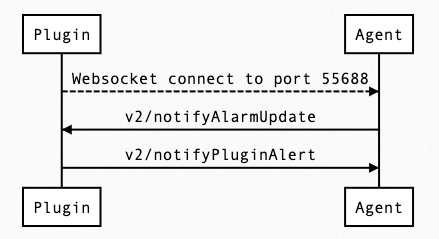
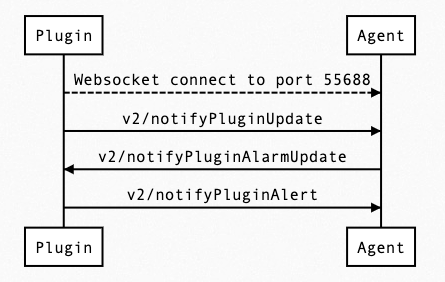
add alert page

Changed region(s): [[0.0296, 0.0293, 0.9476, 0.9665]]

diff --git a/docs/Overview/Alerts.md b/docs/Overview/Alerts.md
@@ -1,0 +1,115 @@
+![alert-sequence](_img/alert-sequence.png)
+
+Alert can bring your alert message up to Allxon Portal, then Allxon Portal can tranfer message to your email, webhook, LINE ..., depend on your setting on Allxon Portal. Just like other Cards, send `v2/notifyPluginUpdate` to initialize Alert Card. If you have Alert setting on Allxon Portal, you will get `v2/notifyPluginAlarmUpdate` after sending `v2/notifPluginUpdate`. After that, you can send `v2/notifyPluginAlert` whenever you wanna trigger Alert.
+
+Let's take a look at the example:
+
+```json {17-25}
+{
+    "jsonrpc": "2.0",
+    "method": "v2/notifyPluginUpdate",
+    "params": {
+        "sdk": "2.0.2",
+        "appGUID": "a8e873a1-e5df-43a2-928a-745ff9c94dfb",
+        "appName": "plugin-hello",
+        "epoch": "1664259325",
+        "displayName": "plugIN Hello",
+        "type": "ib",
+        "version": "1.0.1",
+        "modules": [
+            {
+                "moduleName": "plugin-hello",
+                "displayName": "plugIN Hello",
+                "properties": [],
+                "alarms": [
+                    {
+                        "name": "hello_alarm",
+                        "displayCategory": "Message",
+                        "displayName": "Hello alarm",
+                        "description": "Trigger when someone say hello",
+                        "params": []
+                    }
+                ]
+            }
+        ]
+    }
+}
+```
+
+After sending `v2/notifyPluginUpdate`, Alert Card will look like the image below.
+
+![alert-card](_img/alert-card.png)
+
+You may receive `v2/notifyPluginAlarmUpate` depend on your setting on Allxon Portal like the image below. 
+
+```json
+{
+    "jsonrpc": "2.0",
+    "method": "v2/notifyPluginAlarmUpdate?authorization=$argon2id$v=19$m=64,t=16,p=8$Y1JmLkNDUjRkeFJ7UDBlOQ$qZPxG/iWuZTKQzbsvr86wg",
+    "params": {
+        "appGUID": "a8e873a1-e5df-43a2-928a-745ff9c94dfb",
+        "epoch": "1664259814"
+    }
+}
+```
+
+Let's setting Alert Card on Allxon Portal to connect a webhook. Click "Edit" -> "webhook icon" -> choose a webhook preset -> "Next" -> "Save".
+
+![alert-edit](_img/alert-edit.png)
+
+![alert-preset](_img/alert-preset.png)
+
+![alert-finished](_img/alert-finished.png)
+
+After setting, Plugin should received new `v2/notifyPluginAlarmUpdate` below to notify Plugin that Alarm setting updated. 
+
+```json {12-17}
+{
+    "jsonrpc": "2.0",
+    "method": "v2/notifyPluginAlarmUpdate?authorization=$argon2id$v=19$m=64,t=16,p=8$J2chRypQWmxLLGl4O04zXg$KUvzIkRhS8Ao+FYTysdSWA",
+    "params": {
+        "appGUID": "a8e873a1-e5df-43a2-928a-745ff9c94dfb",
+        "epoch": "1664268028",
+        "version": "1.0.1",
+        "modules": [
+            {
+                "moduleName": "plugin-hello",
+                "epoch": "1664268022",
+                "alarms": [
+                    {
+                        "enabled": true,
+                        "name": "hello_alarm"
+                    }
+                ]
+            }
+        ]
+    }
+}
+```
+
+This can tell Plugin which alert should be enabled. Finally, try to send a `v2/notifyPluginAlert` below to test Alert function.
+
+```json 
+{
+    "jsonrpc": "2.0",
+    "method": "v2/notifyPluginAlert",
+    "params": {
+        "appGUID": "a8e873a1-e5df-43a2-928a-745ff9c94dfb",
+        "moduleName": "plugin-hello",
+        "epoch": "1664268861",
+        "alarms": [
+            {
+                "name": "hello_alarm",
+                "action": "trigger",
+                "time": "1664268861",
+                "message": "Hello Buzz ~"
+            }
+        ]
+    }
+}
+```
+
+And you should received message on your connected webhook service. At the same time, Allxon Portal add a new record on Alert page.
+
+![alert-trigger](_img/alert-trigger.png)
+

diff --git a/docs/Overview/Commands.md b/docs/Overview/Commands.md
@@ -78,3 +78,62 @@ After click "Execute" button, Allxon Portal will send `v2/notifyPluginCommand` t
 :::note
 You may curious what's texts follow `?` at highlight line. Octo SDK will verify this JSON is safe through these texts When you call Octo SDK `JsonValidator::Verify()`. 
 :::
+
+Once we received `v2/notifyPluginCommand`, send back `v2/notifyPluginCommandAck` with `"commandState": "ACCEPTED"` to comfirm received with Allxon Portal.
+
+```json {10}
+{
+    "jsonrpc": "2.0",
+    "method": "v2/notifyPluginCommandAck",
+    "params": {
+        "appGUID": "a8e873a1-e5df-43a2-928a-745ff9c94dfb",
+        "epoch": "1664250407",
+        "commandId": "c96a50867715c200fbea63b5898945512afd9409",
+        "commandSource": "remote",
+        "moduleName": "plugin-hello",
+        "commandState": "ACCEPTED",
+        "commandAcks": [
+            {
+                "name": "say_hello",
+                "result": {
+                    "response": "Hello Buzz"
+                }
+            }
+        ]
+    }
+}
+```
+
+After finished your command task, send `v2/notifyPluginCommandAck` with `"commandState": "ACKED"` and contain execution result back to Allxon Portal.
+
+```json {10}
+{
+    "jsonrpc": "2.0",
+    "method": "v2/notifyPluginCommandAck",
+    "params": {
+        "appGUID": "a8e873a1-e5df-43a2-928a-745ff9c94dfb",
+        "epoch": "1664250407",
+        "commandId": "c96a50867715c200fbea63b5898945512afd9409",
+        "commandSource": "remote",
+        "moduleName": "plugin-hello",
+        "commandState": "ACKED",
+        "commandAcks": [
+            {
+                "name": "say_hello",
+                "result": {
+                    "response": "Hello Buzz"
+                }
+            }
+        ]
+    }
+}
+```
+
+:::note
+There're other `"commandState"` can use: `"REJECTED"`, `"ERRORED"`
+:::
+
+If everything going well, command execute dialog on Allxon Portal will show up like this:
+
+![command-result](_img/command-result.png)
+
